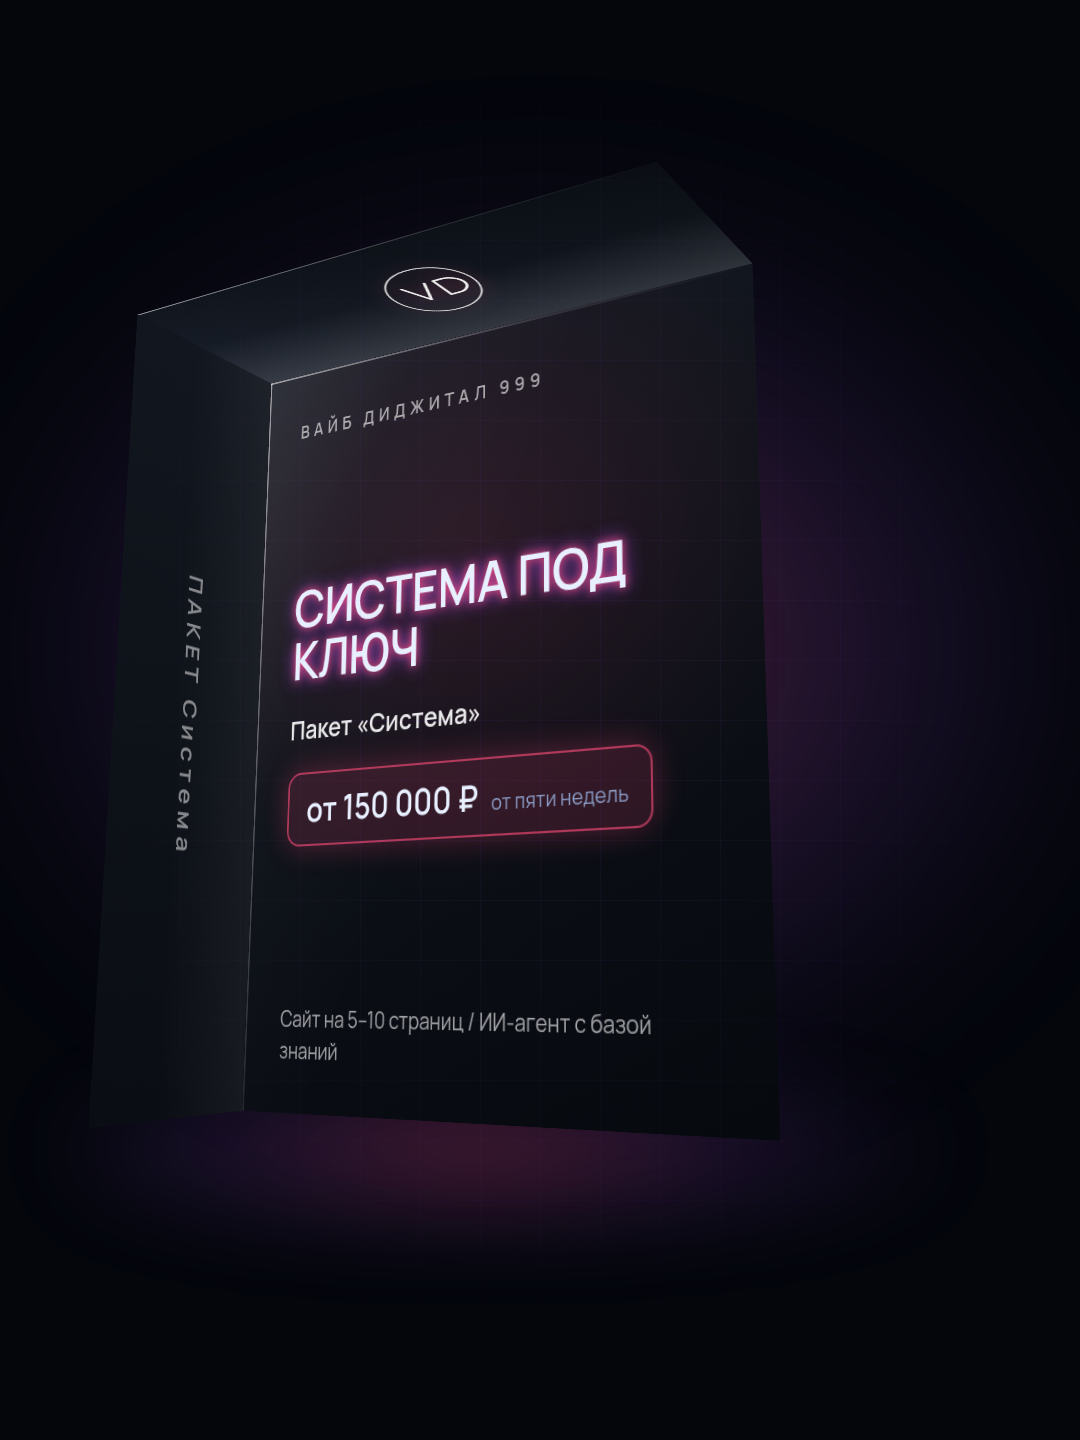
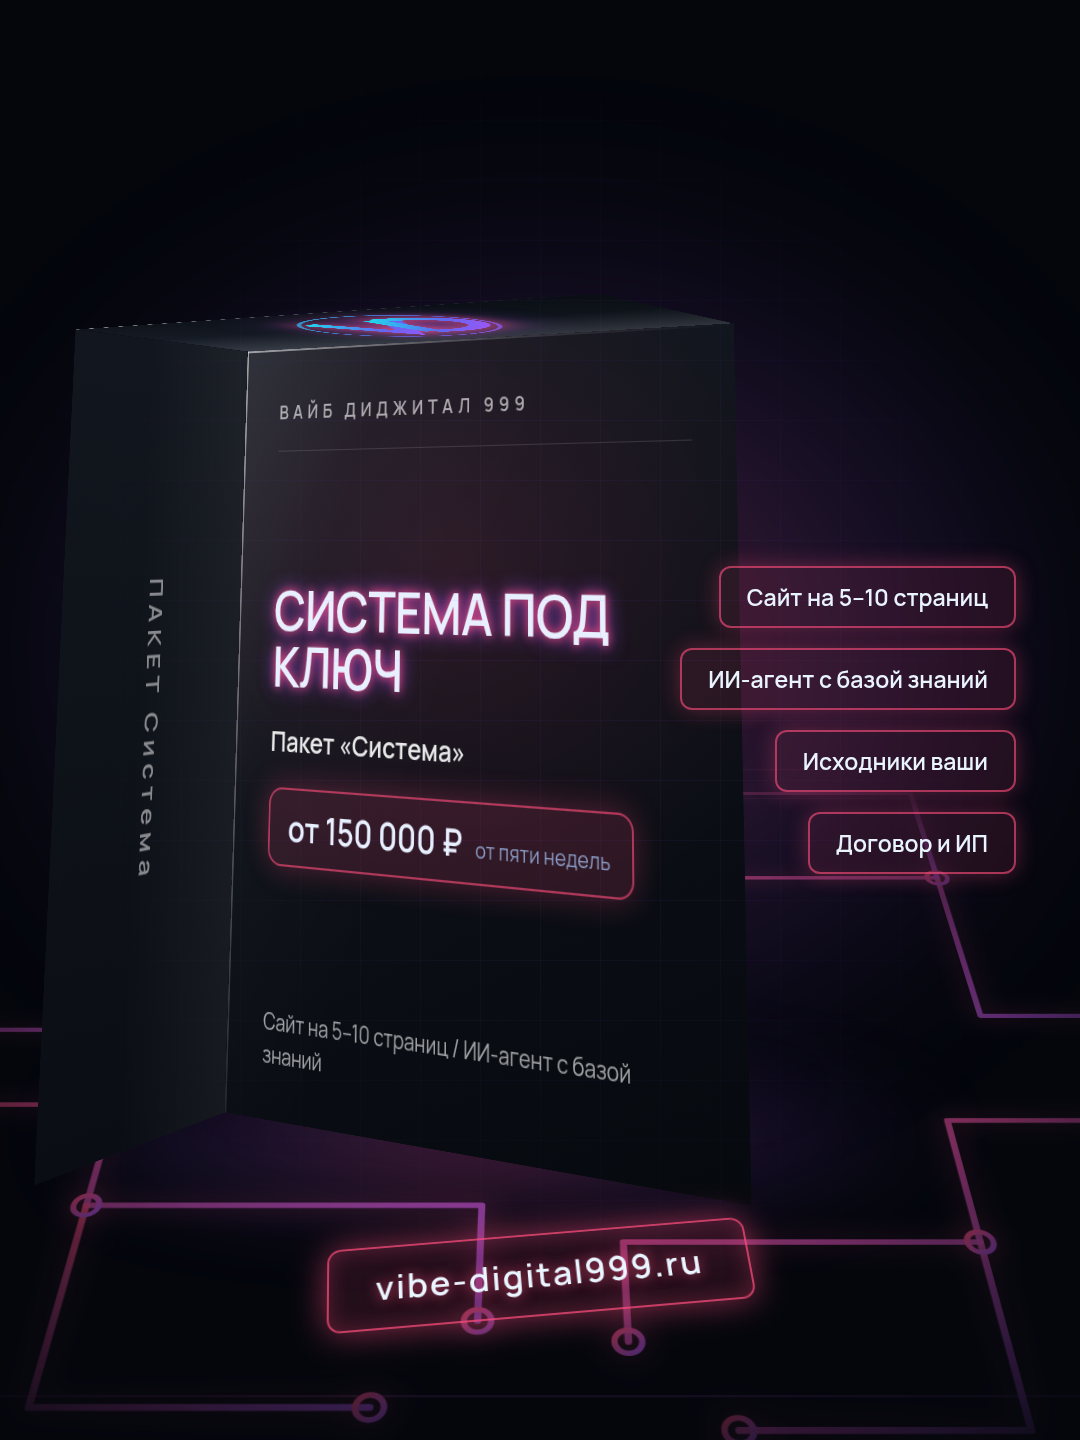
Коробка встала на плату: дорожки, плашка адреса, логотип VD
По референсам владелицы. Плата нарисована линиями в SVG и красится
цветом пакета, плашка с адресом лежит на ней перед коробкой,
логотип на крышке переделан по фирменному знаку.

Чипы справа — словами из состава пакета, а не «Архитектура /
Безопасность / Масштаб» из образца.

Claude-Session: https://claude.ai/code/session_01ELgwZhZjs3zH5Yv9y5TfEh

diff --git a/marketing/paket-korobka.js b/marketing/paket-korobka.js
@@ -51,7 +51,7 @@ const OUT = path.join(__dirname, 'out');
 
 /* Пропорции коробки взяты из задания владелицы — 280×380×100 — и
    пересчитаны под наш холст с тем же отношением сторон. */
-const SHIR = 560, VYS = 760, GLUB = 200;
+const SHIR = 560, VYS = 740, GLUB = 260;
 
 /* Заголовок на лице и цвета — единственное, что задаётся здесь.
    Название пакета, состав, срок и цена берутся из src/prices.js. */
@@ -61,24 +61,91 @@ const PAKETY = {
   sistema: { zagolovok: 'СИСТЕМА ПОД КЛЮЧ', acc: '#FF4D7D', acc2: '#A855F7' },
 };
 
-/* Монограмма на крышке. Рисуется линиями, а не шрифтом: футуристичного
-   шрифта у нас в проекте нет, а тащить чужой файл — это лицензия
-   и лишние килобайты ради двух букв. Геометрия читается «хай-теком»
-   лучше, чем любой текстовый глиф в нашем Manrope. */
-const MONOGRAMMA = `
-  <svg viewBox="0 0 120 120" fill="none"
-       stroke="rgba(255,255,255,.92)" stroke-width="3"
-       stroke-linecap="round" stroke-linejoin="round">
-    <circle cx="60" cy="60" r="46" stroke-width="2" opacity=".85"/>
-    <path d="M34 44 L47 76 L60 44"/>
-    <path d="M70 44 L70 76 L79 76 A16 16 0 0 0 79 44 Z"/>
+/* ЛОГОТИП VD — по фирменному знаку, который прислала владелица:
+   толстая «V» и сцепленная с ней «D», градиент от голубого
+   к фиолетовому, свечение по контуру.
+
+   Рисуется линиями в SVG, а не шрифтом: футуристичного шрифта
+   в проекте нет, а тащить чужой файл ради двух букв — это лицензия
+   и лишние килобайты. Знак геометрический, поэтому линии дают
+   то же, что дал бы шрифт. */
+const LOGO = (id) => `
+  <svg viewBox="0 0 130 120" fill="none">
+    <defs>
+      <linearGradient id="vd${id}" x1="0" y1="0" x2="1" y2="1">
+        <stop offset="0%" stop-color="#22D3EE"/>
+        <stop offset="55%" stop-color="#6366F1"/>
+        <stop offset="100%" stop-color="#A855F7"/>
+      </linearGradient>
+    </defs>
+    <circle cx="65" cy="60" r="54" stroke="url(#vd${id})" stroke-width="2.5" opacity=".75"/>
+    <path d="M26 30 L52 90 L78 30" stroke="url(#vd${id})" stroke-width="12"
+          stroke-linejoin="miter" stroke-linecap="butt"/>
+    <path d="M68 30 L68 90 M68 30 H80 A30 30 0 0 1 80 90 H68"
+          stroke="url(#vd${id})" stroke-width="12"
+          stroke-linejoin="miter" stroke-linecap="butt"/>
   </svg>`;
+
+/* ПЛАТА. Дорожки нарисованы прямыми с прямыми углами и площадками
+   на концах — так рисуют разводку на настоящей плате, и так она
+   читается с первого взгляда. Симметрия намеренно неполная:
+   идеально ровная сетка выглядит обоями, а не платой. */
+const PLATA = (id) => {
+  const doroshki = [
+    'M120 540 H300 V300 H620 V180',
+    'M120 640 H360 V760 H700 V880',
+    'M1380 520 H1180 V300 H900 V190',
+    'M1380 660 H1120 V800 H820 V900',
+    'M300 300 V120 H760',
+    'M1180 300 V140 H860',
+    'M360 760 V960 H620',
+    'M1120 800 V980 H900',
+    'M620 180 H900',
+    'M700 880 H820',
+  ];
+  const ploshchadki = [
+    [300, 300], [620, 180], [360, 760], [700, 880],
+    [1180, 300], [900, 190], [1120, 800], [820, 900],
+    [760, 120], [860, 140], [620, 960], [900, 980],
+  ];
+  return `
+  <svg viewBox="0 0 1500 1100" fill="none">
+    <defs>
+      <linearGradient id="pl${id}" x1="0" y1="0" x2="1" y2="1">
+        <stop offset="0%" stop-color="var(--acc)"/>
+        <stop offset="100%" stop-color="var(--acc2)"/>
+      </linearGradient>
+      <radialGradient id="pm${id}" cx="50%" cy="50%">
+        <stop offset="0%" stop-color="#fff" stop-opacity="1"/>
+        <stop offset="55%" stop-color="#fff" stop-opacity=".55"/>
+        <stop offset="100%" stop-color="#fff" stop-opacity="0"/>
+      </radialGradient>
+      <mask id="mk${id}">
+        <rect width="1500" height="1100" fill="url(#pm${id})"/>
+      </mask>
+    </defs>
+    <g mask="url(#mk${id})">
+      <rect x="90" y="90" width="1320" height="920" rx="26"
+            stroke="url(#pl${id})" stroke-width="3" opacity=".55"/>
+      <rect x="150" y="150" width="1200" height="800" rx="18"
+            stroke="url(#pl${id})" stroke-width="2" opacity=".3"/>
+      ${doroshki.map((d) => `<path d="${d}" stroke="url(#pl${id})" stroke-width="6"
+            stroke-linecap="round" stroke-linejoin="round" opacity=".9"/>`).join('\n      ')}
+      ${ploshchadki.map(([x, y]) => `<circle cx="${x}" cy="${y}" r="11"
+            fill="none" stroke="url(#pl${id})" stroke-width="5"/>`).join('\n      ')}
+    </g>
+  </svg>`;
+};
 
 const html = (p) => {
   const nastr = PAKETY[p.id];
-  const sostav = p.sostav
-    .map((id) => PRICES.usluga(id).nazvanie.replace(/ \(.*\)$/, ''))
-    .join('  /  ');
+  const chasti = p.sostav.map((id) => PRICES.usluga(id).nazvanie.replace(/ \(.*\)$/, ''));
+  const sostav = chasti.join('  /  ');
+
+  /* Чипы справа — состав пакета плюс две строки, которые есть
+     в договоре. Не «Архитектура / Безопасность / Масштаб» из чужого
+     макета: те слова ничего не обещают и ни к чему не привязаны. */
+  const chipy = [...chasti, 'Исходники ваши', 'Договор и ИП'];
 
   return `<!DOCTYPE html><html lang="ru"><head><meta charset="utf-8">
 <style>
@@ -113,8 +180,25 @@ ${fontCss}
     background-size:60px 60px;
     mask-image:radial-gradient(ellipse at 50% 48%, #000 22%, transparent 76%)}
 
-  .box-scene{position:relative;perspective:1500px;perspective-origin:50% 42%;
-    width:var(--shir);height:var(--vys)}
+  /* Сцена. perspective-origin выше середины — иначе крышку не видно. */
+  .scena{position:relative;width:100%;height:100%;
+    perspective:2000px;perspective-origin:50% 8%;
+    display:flex;align-items:center;justify-content:center}
+
+  /* ПЛАТА, на которой стоит коробка. Главное, чего не хватало против
+     референса: без неё предмет висит в пустоте. Дорожки нарисованы
+     линиями, а не картинкой, — их видно резко на любом размере
+     и они красятся цветом пакета. */
+  .plata{position:absolute;z-index:0;
+    width:1560px;height:1160px;left:50%;top:72%;
+    transform:translate(-50%,-50%) rotateX(76deg);
+    transform-style:preserve-3d}
+  .plata svg{width:100%;height:100%;
+    filter:drop-shadow(0 0 14px color-mix(in srgb, var(--acc) 55%, transparent))}
+
+  .box-scene{position:relative;z-index:1;
+    width:var(--shir);height:var(--vys);
+    transform-style:preserve-3d}
 
   /* След на «полу» — отдельным пятном, а не тенью коробки: тень
      поворачивается вместе с телом, а лежать должна на плоскости. */
@@ -125,11 +209,13 @@ ${fontCss}
       color-mix(in srgb, var(--acc2) 18%, transparent) 40%,
       transparent 72%);
     filter:blur(46px)}
+  /* Контактная тень — узкая и плотная прямо под дном: без неё коробка
+     не стоит на плате, а висит над ней. */
   .box-scene::before{content:'';position:absolute;z-index:0;
-    left:-14%;right:-4%;bottom:-96px;height:96px;border-radius:50%;
+    left:-6%;right:2%;bottom:-34px;height:64px;border-radius:50%;
     background:radial-gradient(ellipse at 46% 50%,
-      rgba(0,0,0,.92) 0%, rgba(0,0,0,.5) 44%, transparent 74%);
-    filter:blur(30px)}
+      rgba(0,0,0,.95) 0%, rgba(0,0,0,.6) 40%, transparent 72%);
+    filter:blur(20px)}
 
   /* КАРКАС. Поворачивается целиком, грани внутри не двигаются
      сами по себе — только выдвигаются на половину глубины. */
@@ -183,8 +269,11 @@ ${fontCss}
      читается как «Λ». Разворот на 180° вокруг горизонтальной оси
      это гасит. Тот же класс ошибок, что зеркальный текст на торце
      книги, — проверять на увеличенном куске. */
-  .box-top svg{width:118px;height:118px;transform:rotateX(180deg);
-    filter:drop-shadow(0 0 12px color-mix(in srgb, var(--acc) 60%, transparent))}
+  /* Крышку видно под острым углом, поэтому знак на ней сплющивается.
+     Размер и свечение подняты, чтобы он читался в кадре. */
+  .box-top svg{width:224px;height:224px;transform:rotateX(180deg);
+    filter:drop-shadow(0 0 18px color-mix(in srgb, var(--acc) 85%, transparent))
+           drop-shadow(0 0 34px color-mix(in srgb, var(--acc2) 60%, transparent))}
 
   /* Блики на рёбрах: тонкие светлые полосы по стыкам граней.
      Именно они читаются как глянцевый пластик. */
@@ -205,8 +294,11 @@ ${fontCss}
     pointer-events:none}
 
   /* ── Содержимое лицевой грани ─────────────────────────── */
+  /* Полоса крышки: на референсе у коробки виден шов, и надпись студии
+     стоит НА крышке, а не на лице. Повторяем швом поперёк лица. */
   .marka{font-size:19px;font-weight:800;letter-spacing:.3em;
-    color:rgba(255,255,255,.62)}
+    color:rgba(255,255,255,.62);padding-bottom:26px;
+    border-bottom:1px solid rgba(255,255,255,.13)}
 
   .glavnoe{margin:auto 0;display:flex;flex-direction:column;gap:26px}
 
@@ -224,11 +316,37 @@ ${fontCss}
   .cena span{font-size:20px;color:var(--mist)}
 
   .niz{font-size:21px;line-height:1.4;color:rgba(255,255,255,.62)}
+
+  /* Неоновая плашка с адресом — лежит на плате перед коробкой,
+     поэтому наклонена вместе с ней. */
+  .adres{position:absolute;z-index:2;left:50%;top:88.5%;
+    transform:translate(-50%,-50%) rotateX(64deg) rotateZ(-5deg);
+    padding:18px 46px;border-radius:14px;white-space:nowrap;
+    font-size:34px;font-weight:800;letter-spacing:.06em;
+    color:#EAF6FF;
+    border:2px solid color-mix(in srgb, var(--acc) 75%, transparent);
+    background:color-mix(in srgb, var(--acc) 12%, transparent);
+    box-shadow:0 0 34px color-mix(in srgb, var(--acc) 55%, transparent),
+               inset 0 0 22px color-mix(in srgb, var(--acc) 26%, transparent);
+    text-shadow:0 0 14px color-mix(in srgb, var(--acc) 80%, transparent)}
+
+  /* Чипы справа — как на референсе, но словами из состава пакета,
+     а не «Архитектура / Безопасность / Масштаб» из чужого макета. */
+  .chipy{position:absolute;z-index:2;right:64px;top:50%;
+    transform:translateY(-50%);
+    display:flex;flex-direction:column;gap:20px;align-items:flex-end}
+  .chipy div{padding:13px 26px;border-radius:12px;white-space:nowrap;
+    font-size:23px;font-weight:700;color:#E9F4FF;
+    border:2px solid color-mix(in srgb, var(--acc) 62%, transparent);
+    background:color-mix(in srgb, var(--acc) 10%, transparent);
+    box-shadow:0 0 22px color-mix(in srgb, var(--acc) 32%, transparent)}
 </style></head><body>
-  <div class="box-scene">
+  <div class="scena">
+    <div class="plata">${PLATA(p.id)}</div>
+    <div class="box-scene">
     <div class="box">
       <div class="gran box-left"><span>ПАКЕТ ${p.nazvanie.replace(/[«»]/g, '')}</span></div>
-      <div class="gran box-top">${MONOGRAMMA}</div>
+      <div class="gran box-top">${LOGO(p.id)}</div>
       <div class="gran box-front">
         <div class="marka">ВАЙБ ДИДЖИТАЛ 999</div>
         <div class="glavnoe">
@@ -241,6 +359,12 @@ ${fontCss}
         <div class="niz">${sostav}</div>
       </div>
     </div>
+    </div>
+
+    <div class="chipy">
+      ${chipy.map((c) => `<div>${c}</div>`).join('\n      ')}
+    </div>
+    <div class="adres">vibe-digital999.ru</div>
   </div>
 </body></html>`;
 };

diff --git a/TASKS.md b/TASKS.md
@@ -3492,3 +3492,39 @@ GreenSock). Проверено открытием страниц, а не пои
 
 - [ ] Посмотреть три коробки и сказать про углы разворота — они
       подбираются глазами, моё значение не единственно верное.
+
+### 13 августа, дополнение — коробка встала на плату
+
+Владелица прислала два референса: свой логотип «VD» и фотографию
+коробки, стоящей на плате микросхемы.
+
+**Сначала о претензии «это опять плоская книга с зеркальным текстом».**
+Проверил файл: коробка уже была с тремя гранями, надпись на боку
+читалась правильно, вырезы прикладывались. Речь шла о картинке
+из более раннего сообщения. **Спорить не о чем — важно другое:
+референс показал, чего в моей коробке действительно не было.**
+
+**Чего не хватало против референса:**
+
+- [x] `      ` **Плата под коробкой.** Дорожки с прямыми углами
+      и площадками на концах, нарисованы линиями в SVG и красятся
+      цветом пакета. Без платы предмет висит в пустоте — это
+      и отличало мою картинку от образца сильнее всего.
+- [x] `      ` **Неоновая плашка с адресом** `vibe-digital999.ru`,
+      лежит на плате перед коробкой, наклонена вместе с ней.
+- [x] `      ` **Логотип «VD» по фирменному знаку**: толстая «V»
+      и сцепленная «D», градиент от голубого к фиолетовому, свечение.
+      Прежняя тонкая монограмма на знак владелицы не походила.
+- [x] `      ` **Шов крышки** на лицевой грани: на референсе у коробки
+      виден стык, и надпись студии стоит на крышке.
+- [x] `      ` **Чипы справа** — как на образце, но словами из состава
+      пакета плюс две строки из договора. На референсе там
+      «Архитектура / Безопасность / Масштаб» — слова, которые ничего
+      не обещают и ни к чему не привязаны.
+- [x] `      ` Глубина коробки поднята с 200 до 260px, контактная тень
+      сделана узкой и плотной — коробка стоит на плате, а не висит.
+
+**Ждём от Гульнары:**
+
+- [ ] Посмотреть три коробки. Логотип на крышке виден под острым углом
+      и сплющивается — если нужен крупнее, это одно число.
